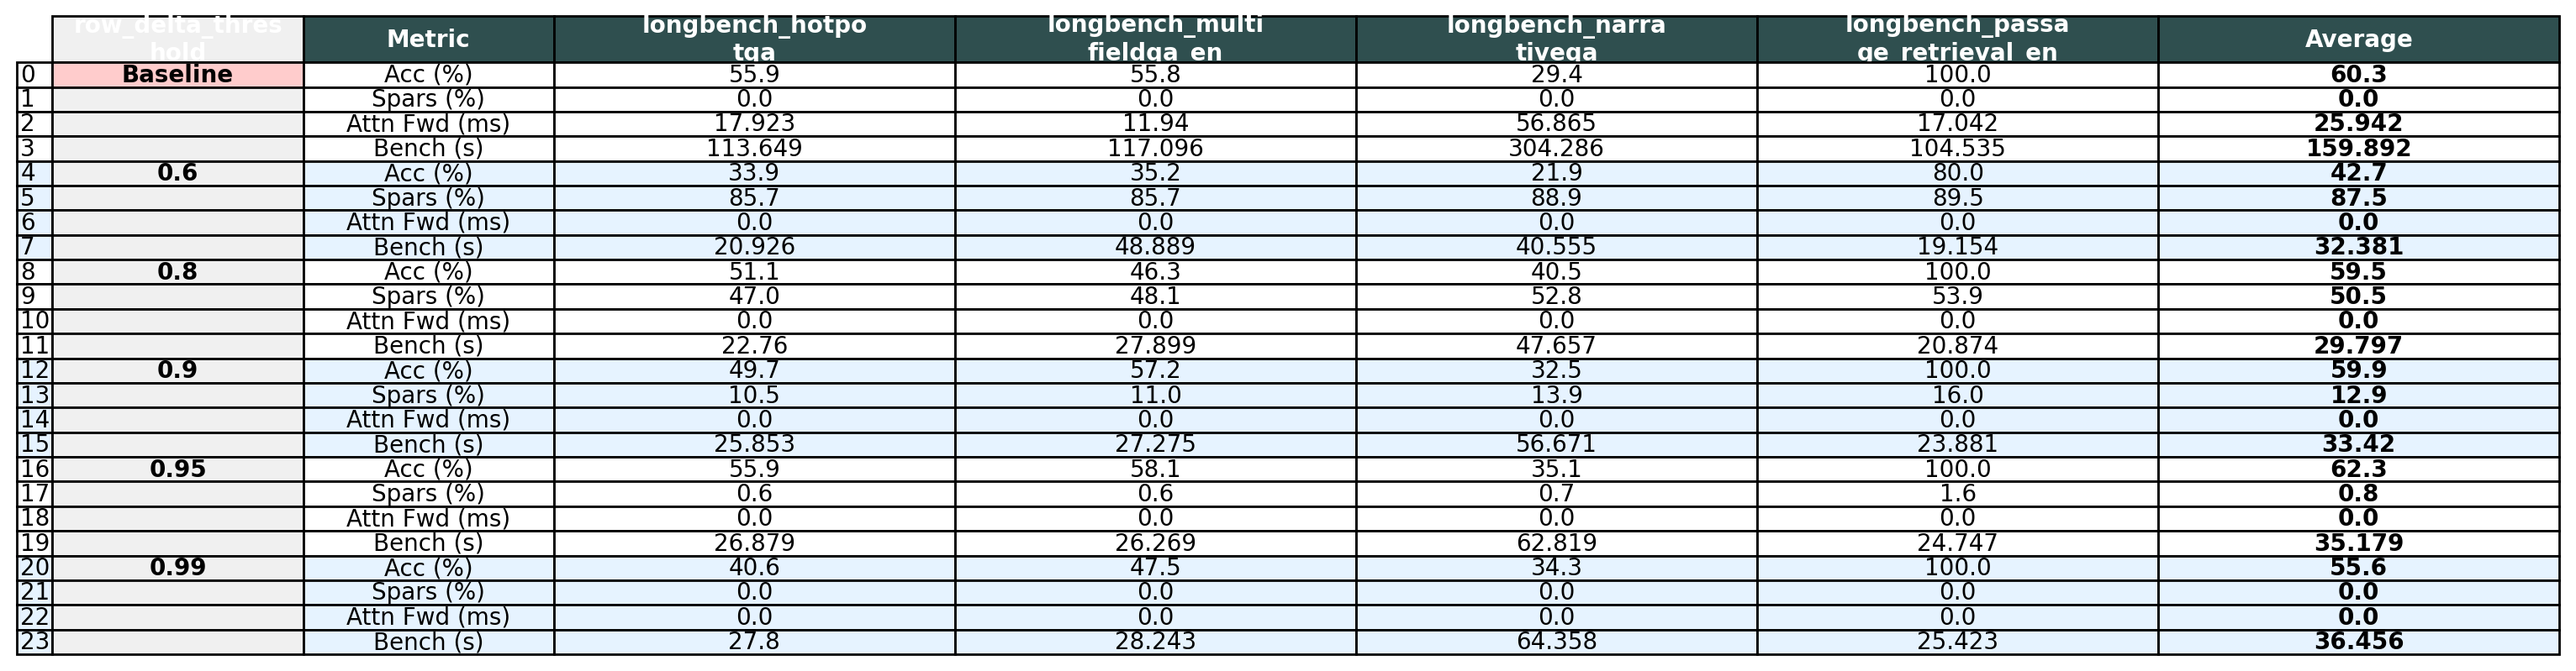
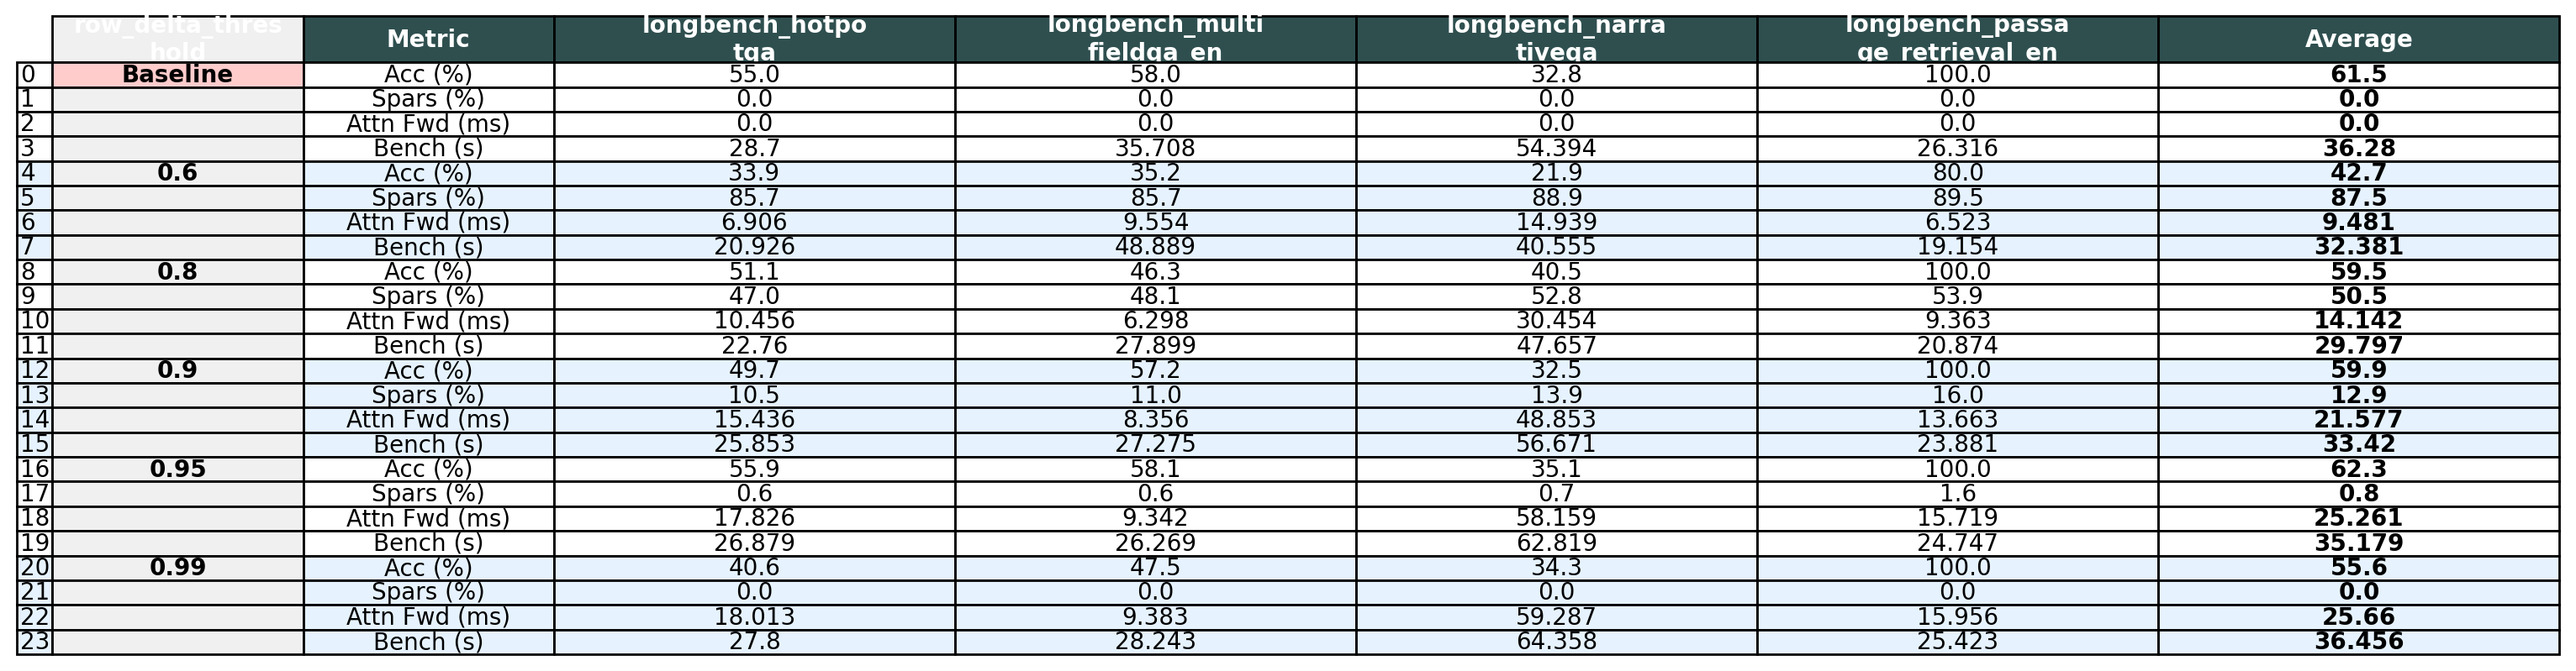
cosine sucks

diff --git a/eval_all.py b/eval_all.py
@@ -276,7 +276,8 @@ def run_single_pass(lm_model, task, eval_config, glob_settings, time_internal_se
                 avg_ms = stats['time_ms'] / stats['calls']
                 latency_breakdown[metric] = avg_ms
     
-    total_avg_ms = latency_breakdown.get('time_forward_total', 0.0)
+    total_avg_ms = latency_breakdown.get('time_prefill_forward_total',
+                   latency_breakdown.get('time_forward_total', 0.0))
 
     seq_lengths = getattr(globVR, 'sequence_lengths', [])
     

diff --git a/plotter.py b/plotter.py
@@ -7,7 +7,7 @@ import matplotlib.pyplot as plt
 from pandas.plotting import table
 
 # Hardcoded baseline path
-BASELINE_PATH = "snellius_experiments/llama/baseline"
+BASELINE_PATH = "snellius_experiments/llama/20_baseline"
 
 def load_experiment_data(exp_dir):
     """Crawls an experiment directory and compiles all task JSONs into a DataFrame."""
